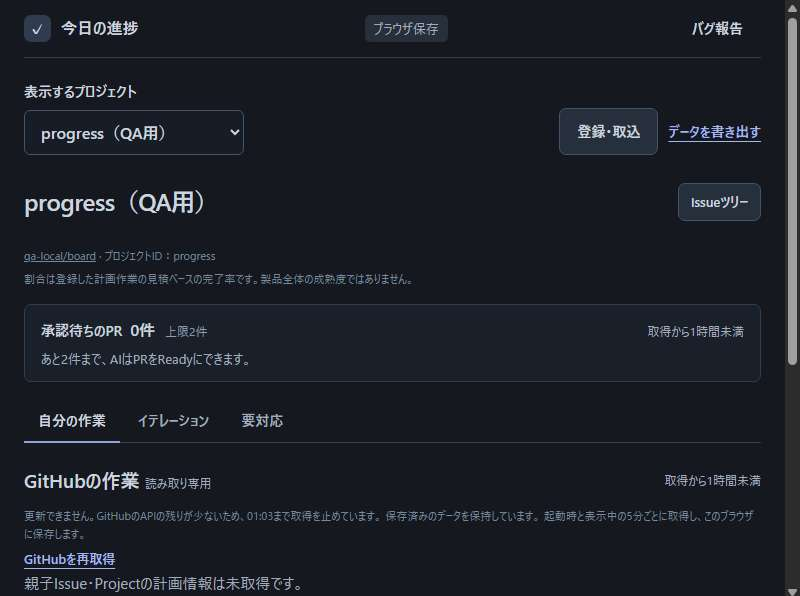
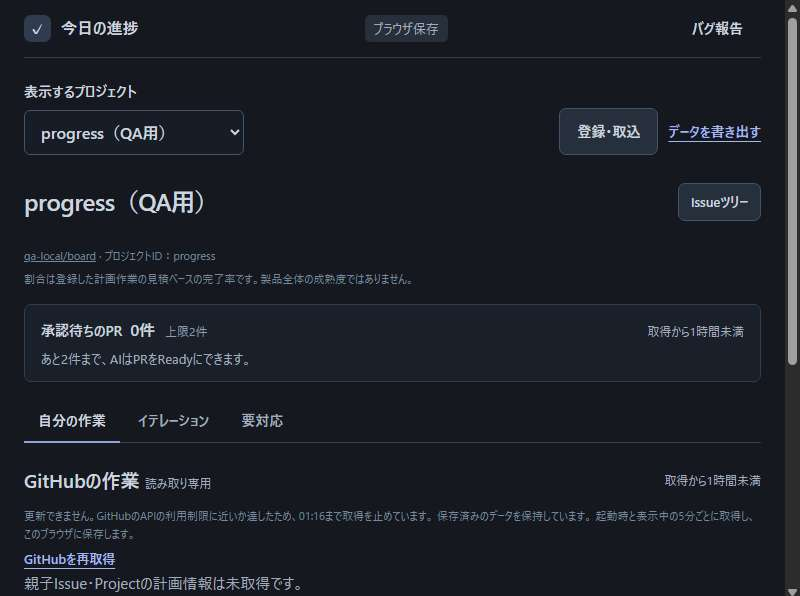
fix: ghが利用制限を返したときも、再開の時刻まで取得を止める
ほかのプロセスが共有のAPI枠を使い切ると、ghの失敗がgh_failedに変換され、
残りの記録に届かないまま再取得のたびにAPIを呼んでいた。

- すべてのgh呼び出しに--includeを付け、失敗した応答のヘッダーと本文も読む。
- 一次制限はx-ratelimit-reset、二次制限はretry-afterが示す時刻まで止める。
  GraphQLの一次制限（状態200のerrorsにRATE_LIMITED）にも対応する。
  時刻が分からないときは5分間止める。
- 止めている理由の文言を、「残りが少ない」だけでなく「制限に達した」場合も含む表現にする。

Refs #40

Changed region(s): [[0.1875, 0.8456, 0.9375, 0.8758], [0.0312, 0.8758, 0.1562, 0.906]]

diff --git a/README.md b/README.md
@@ -100,7 +100,7 @@ Nodeがブラウザ外で`gh api --hostname github.com`を呼ぶ。Issue・PR・
 
 取得は同時に1repositoryまでとし、同repositoryの同時要求を共有する。取得中に届いた登録後の取得要求と明示的な再取得要求はまとめて保持し、現在の取得が終わった後に最新の登録先を確認して処理する。要求が届いた後に取得を始めて保存したrepositoryは取り直さない。成功結果はNodeのメモリで15秒だけ再利用し、取得全体90秒・gh一回20秒・生応答の合計20MiB・snapshot 5MiB・各一覧最大50ページの上限を持つ。GraphQLのIssueは1ページ100件で取得する。IssueごとのProject登録は10件、Project登録ごとのフィールド値は100件、前提（blocked by）は20件、前提ごとのラベルは50件、紐づくPRは20件までとし、次ページが残る場合は不完全として更新を見送る。途中失敗、ページ不整合、古い取得日時、保存容量不足では保存済みのsnapshotと手動計画を保持する。同じ取得日時・同じ内容の共有応答は保存を省略する。
 
-GitHub APIの1時間の枠（GraphQLは5,000ポイント）は、同じ`gh`の認証を使うほかの作業と共有する。GitHubはGraphQLのコストを、入れ子の接続の親の件数の積から数える。上の上限では、Issue 100件のページごとに33ポイントを使う（実測）。GraphQL queryは全体の残りポイントも読み、その値が1,000を下回る間は、リセット時刻まで新しい取得を始めない。取得の途中で下回ったときも、次のページを取得しない。止めている間は`gh`を呼ばず、取得状態に止めている理由と再開できる時刻を示し、保存済みのsnapshotと手動計画を保持する。別のプロセスや別のコマンドが使ったポイントも、残りに含まれる。
+GitHub APIの1時間の枠（GraphQLは5,000ポイント）は、同じ`gh`の認証を使うほかの作業と共有する。GitHubはGraphQLのコストを、入れ子の接続の親の件数の積から数える。上の上限では、Issue 100件のページごとに33ポイントを使う（実測）。GraphQL queryは全体の残りポイントも読み、その値が1,000を下回る間は、リセット時刻まで新しい取得を始めない。取得の途中で下回ったときも、次のページを取得しない。ほかのプロセスが枠を使い切り、`gh`が利用制限の応答を返したときも同じく止める。Nodeは`gh api --include`で応答のヘッダーも読み、一次制限は`x-ratelimit-reset`、二次制限は`retry-after`が示す時刻まで止める。時刻が分からないときは5分間止める。止めている間は`gh`を呼ばず、取得状態に止めている理由と再開できる時刻を示し、保存済みのsnapshotと手動計画を保持する。別のプロセスや別のコマンドが使ったポイントも、残りに含まれる。
 
 手動編集は取得中も使える。保存直前に最新の手動計画を読み直し、既存のWeb Locksと保存検証を使う。詳細drawerと未保存の入力を更新で閉じない。開いている「登録・取込」のsnapshot一覧とGitHub詳細は最新snapshotのタイトル・状態・日時で更新する。対象が最新snapshotに含まれなくなった場合は、その旨を詳細に表示する。別タブが保存した場合は取得結果も反映を止め、再読み込みを案内する。自動保存も別タブの編集停止を起こすため、編集は一つのタブで行う。
 
